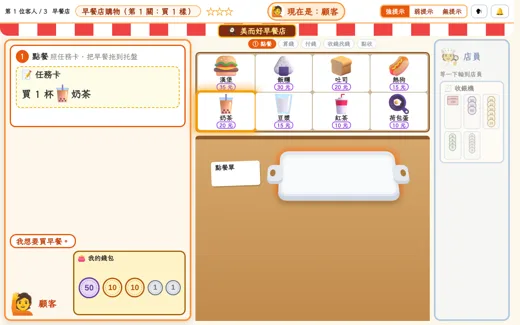
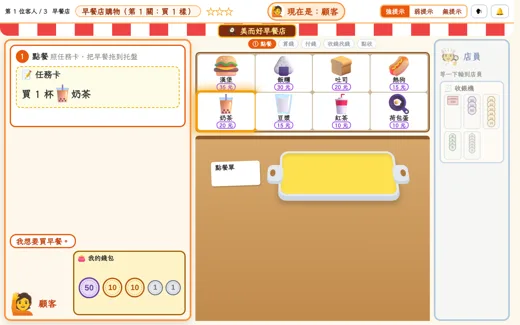
早餐店遊戲回饋第七輪：規劃文件＋縮圖
Claude-Session: https://claude.ai/code/session_011NSASYBWvdDhJFsSK2QUnf

Changed region(s): [[0.5231, 0.4308, 0.7692, 0.6154]]

diff --git a/docs/早餐店購物遊戲_規劃.md b/docs/早餐店購物遊戲_規劃.md
@@ -29,6 +29,7 @@
 | 使用者回饋第四輪（2026-11-09） | 顧客移到左下角（對話框在上、頭像左下、錢包右下）；顧客九宮格靠右；托盤左右縮短、前後加深，付錢／找錢框加高；「付好了」改「確認」；**兩側各有暫放區**（顧客「要付的錢」、店員「要找的錢」），錢先放暫放區，按「確認」才放到中央（付錢＝錢飛過去；找錢＝手抓著錢放下再推） |
 | 使用者回饋第五輪（2026-11-09） | 付錢、找錢不再分兩個框，錢直接放在櫃台桌面上；顧客的「要付的錢」移到錢包正上方；托盤上的早餐比菜單圖示大 |
 | 使用者回饋第六輪（2026-11-09） | 櫃台上加一個零錢盤（付的錢、找的錢都放在同一個盤子上）；點餐時托盤改成一閃一閃的光暈提示（拿掉紅色虛線框） |
+| 使用者回饋第七輪（2026-11-09） | 零錢盤往下移、和托盤留大間距；托盤提示改成底色一亮一暗（白↔亮黃），點餐 5 秒後托盤還是空的就加搖晃 |
 | 付太多 | 付的錢比總價多也算對，照樣找錢；強提示多問「有沒有剛好的付法？」 |
 | 菜單（2026-11-08 定案） | 蛋餅 25（份）、漢堡 35（個）、三明治 30（個）、鐵板麵 45（份）、飯糰 30（個）、吐司 20（片）、熱狗 15（根）、奶茶 20、豆漿 15、紅茶 10（杯）、茶葉蛋 8（顆）、荷包蛋 10（個）。開放圖示沒有蘿蔔糕、薯餅，改成飯糰、熱狗，並加吐司、荷包蛋。茶葉蛋 8 元低於圖庫 d2 下限 10，刻意保留（要用到 1、5 元硬幣），管理端改價會被驗證擋 |
 
